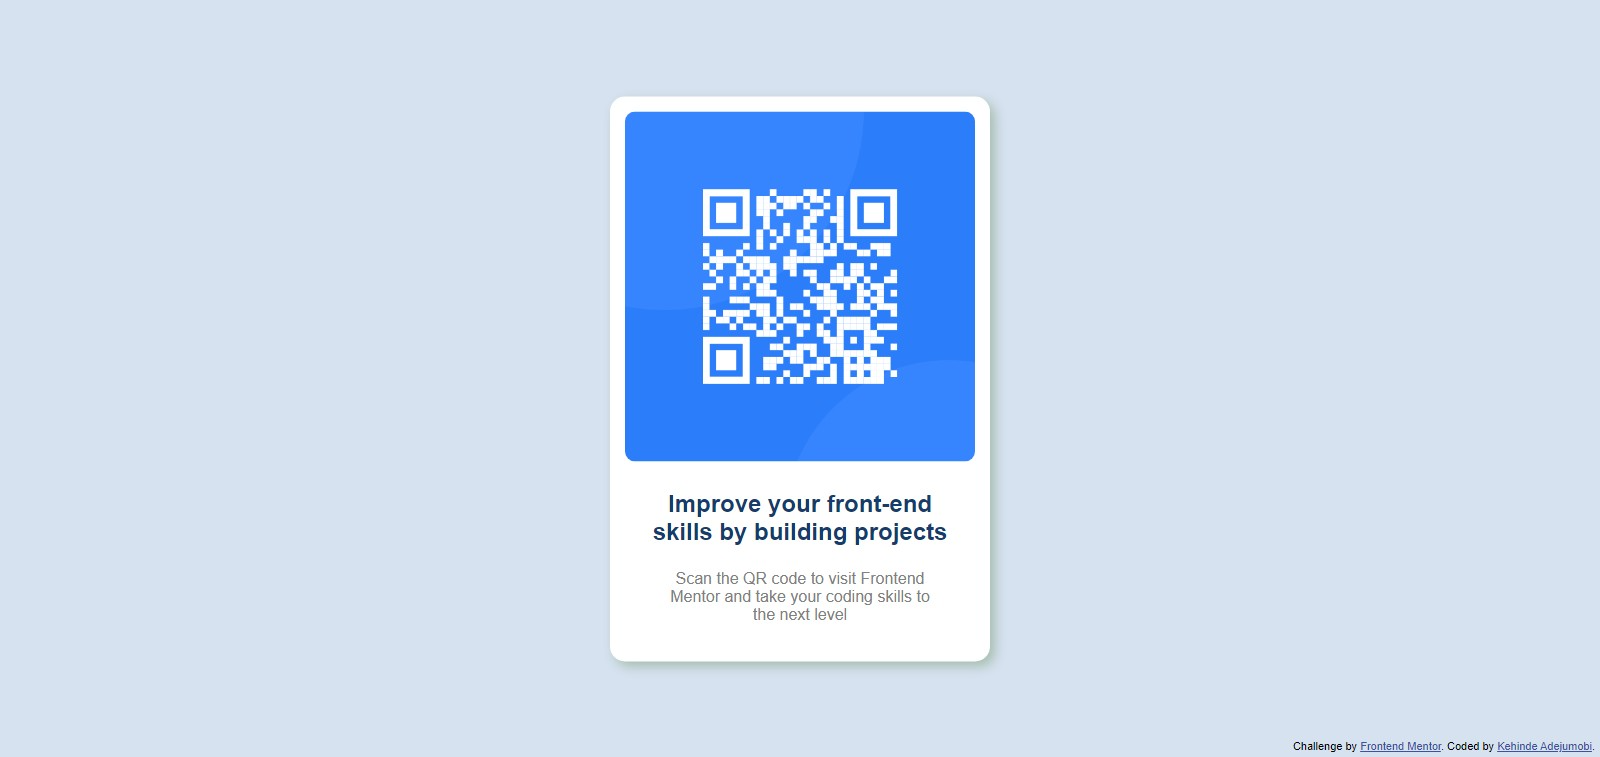
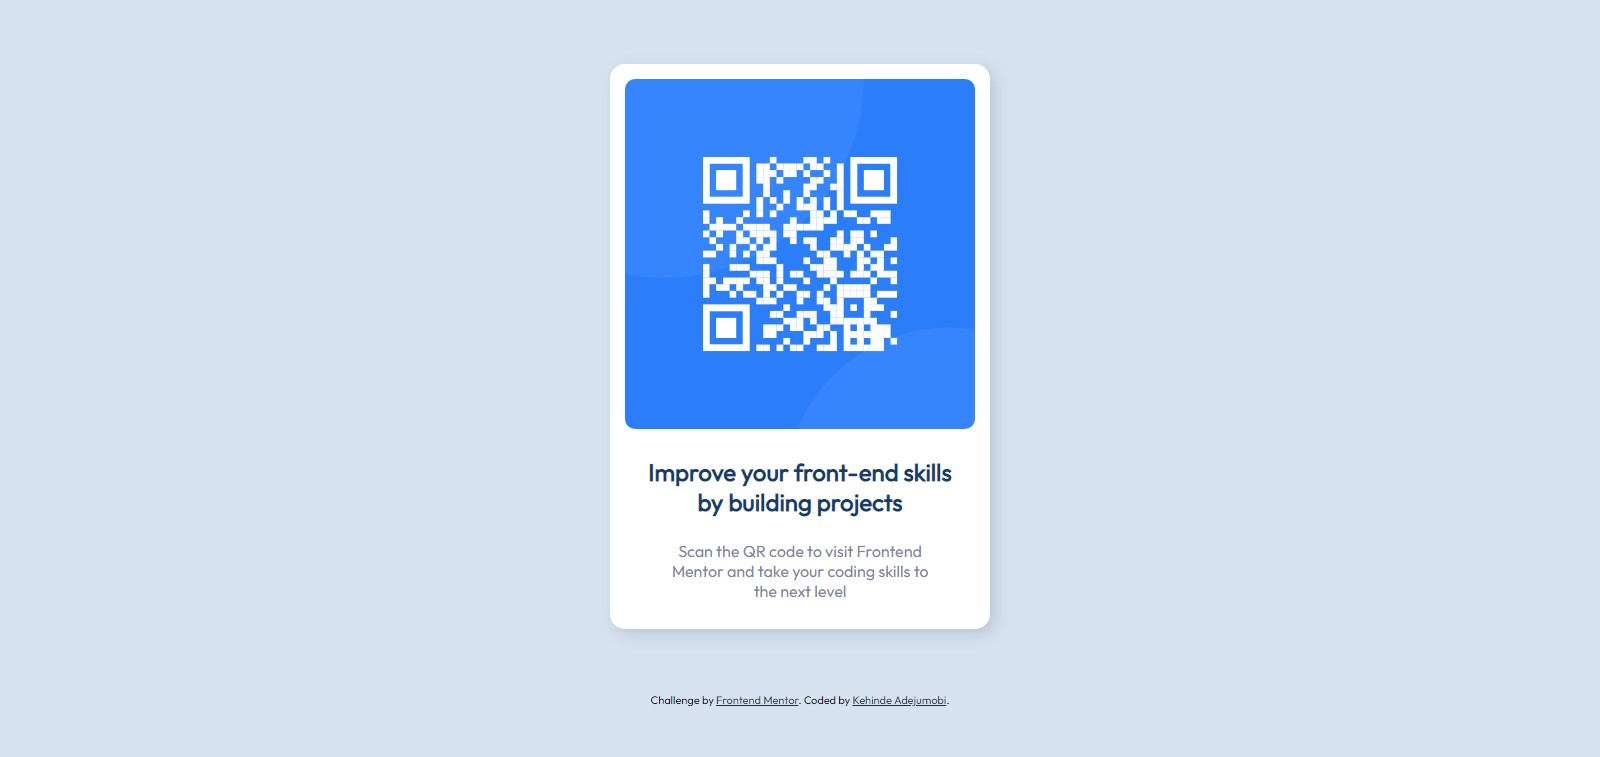
made adjustments to the codes

diff --git a/index.html b/index.html
@@ -6,26 +6,28 @@
 
   <link rel="icon" type="image/png" sizes="32x32" href="./images/favicon-32x32.png">
   <link rel="stylesheet" type="text/css" href="style.css">
+  <link rel="preconnect" href="https://fonts.googleapis.com">
+  <link rel="preconnect" href="https://fonts.gstatic.com" crossorigin>
+  <link href="https://fonts.googleapis.com/css2?family=Outfit&display=swap" rel="stylesheet">
   
   <title>Frontend Mentor | QR code component</title>
-
-  <!-- Feel free to remove these styles or customise in your own stylesheet 👍 -->
-  <style>
-    .attribution { font-size: 11px; position: absolute; bottom: 5px; right: 5px;}
-    .attribution a { color: hsl(228, 45%, 44%); }
-  </style>
 </head>
+
 <body>
-  <div class="box">
-    <img src="images/image-qr-code.png" alt="QR code" width="350">
-    <p class="title">Improve your front-end skills by building projects</p>
-    <p class="description">Scan the QR code to visit Frontend Mentor and take your coding skills to the next level</p>
-  </div>
-  
-  <div class="attribution">
-    Challenge by <a href="https://www.frontendmentor.io?ref=challenge" target="_blank">Frontend Mentor</a>. 
-    Coded by <a href="#">Kehinde Adejumobi</a>.
-  </div>
+  <main>
+    <div class="box">
+      <img src="images/image-qr-code.png" alt="QR code" width="350">
+      <p class="title">Improve your front-end skills by building projects</p>
+      <p class="description">Scan the QR code to visit Frontend Mentor and take your coding skills to the next level</p>
+    </div>
+
+    <footer>
+      <div class="attribution">
+        Challenge by <a href="https://www.frontendmentor.io?ref=challenge" target="_blank">Frontend Mentor</a>. 
+        Coded by <a href="#">Kehinde Adejumobi</a>.
+    </footer>
+    </div>
+  </main>
 </body>
 </html>
 

diff --git a/style.css b/style.css
@@ -1,21 +1,18 @@
 body {
     background-color: hsl(212, 45%, 89%);
-    font-family: sans-serif;
+    font-family: 'Outfit', sans-serif;;
 }
 
 .box {
-    background-color: white;
+    background-color: hsl(0, 0%, 100%);
     width: 350px;
     text-align: center;
     height: 550px;
     padding: 15px;
     padding-bottom: 0;
-    border-radius: 15px;
-    position: absolute;               /* 2 */
-    top: 50%;
-    left: 50%;                         /* 3 */
-    transform: translate(-50%, -50%); 
-    box-shadow: 5px 5px 12px #a7beb0;
+    border-radius: 15px;        /* 2 */
+    margin: 4rem auto;
+    box-shadow: 5px 5px 15px hsla(220, 15%, 55%,0.3);
 }
 
 .title {
@@ -26,10 +23,13 @@ body {
 }
 
 .description {
-    color: gray;
+    color: hsl(220, 15%, 55%);
     padding: 0 40px;
 }
 
 img {
     border-radius: 10px;
 }
+
+.attribution { font-size: 11px; text-align: center;}
+.attribution a { color: hsl(218, 44%, 22%); }
